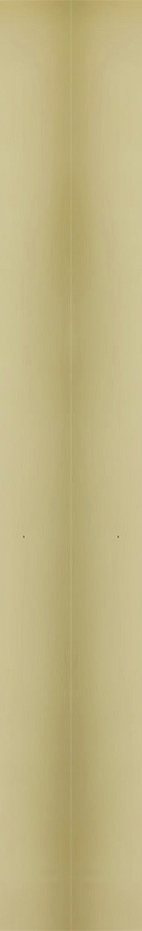
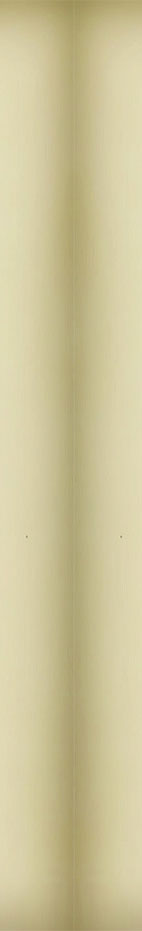
Mejoras gráficas Generales (Web y Java)

diff --git a/maquinaGirondoJS/JS-full/sketch.js b/maquinaGirondoJS/JS-full/sketch.js
@@ -12,7 +12,6 @@ var otraPagina = false;
 function preload() {
 
  back = loadImage("data/back.jpg");
- linea = loadImage("data/linea.jpg");
  times = loadFont("data/timesbd.otf");
 
  tema = floor(random(0, 3.99));
@@ -42,7 +41,7 @@ function setup() {
 
  /*lat = locationData.latitude;
  lon = locationData.longitude;
- var url = "https://maps.googleapis.com/maps/api/geocode/json?latlng="+lat+"%2C"+lon+"&language=es";
+ var url = "http://api.geonames.org/findNearbyPlaceNameJSON?lat="+lat+"&lng="+lon+"&lang=es&style=short&username=ibuioli";
  json = loadJSON(url, tenerDatos);*/
 }
 
@@ -54,7 +53,7 @@ function setup() {
 
 function draw() {
  //Grafica
- background(30);
+ background(233, 226, 198);
  imageMode(CORNER);
  image(back, 0, 0, width/2, height);
 
@@ -64,7 +63,6 @@ function draw() {
   image(back, 0, 0, width/2, height);
   image(back, width/2, 0, width/2, height);
   imageMode(CENTER);
-  image(linea, width/2, height/2, width/10, height);
  }
 
  var can1 = est_1.c + est_2.c + est_3.c;
@@ -77,10 +75,10 @@ function draw() {
  }
 
  if(ani === true){
-  alTi = alTi - 10;
-  al1 = al1 - 10;
-  al2 = al2 - 10;
-  alFir = alFir - 10;
+  alTi = alTi - 15;
+  al1 = al1 - 15;
+  al2 = al2 - 15;
+  alFir = alFir - 15;
 
   if(alFir === -20){
     est_1 = new Estrofa(byte(floor(random(3, 7.99))));
@@ -149,7 +147,6 @@ function draw() {
   fill(10, 8, 0, al2);
   text(est_4.texto() + "\n\n" + est_5.texto(), width-width/2+map(width, 800, 1980, 35, 86), 40, width/2 - map(width, 800, 1980, 40, 90), height);
  }
-
 
  //FIRMA
  textAlign(RIGHT, BOTTOM);

diff --git a/maquinaGirondoJS/maquinaGirondo_jscore/maquinaGirondo_jscore.js b/maquinaGirondoJS/maquinaGirondo_jscore/maquinaGirondo_jscore.js
@@ -127,10 +127,9 @@ function Estrofa(c_) {
  }
 
  this.escribir = function() {
-  textAlign(LEFT, CENTER);
-  textSize(22);
-  textLeading(22);
-  text(this.t, 10, -height/8, width/2 - 10, height);
+  push();
+  text(this.t, 10, 10, width, height);
+  pop();
  }
 
  this.texto = function() {

diff --git a/maquinaGirondoJS/JS-min/sketch.js b/maquinaGirondoJS/JS-min/sketch.js
@@ -20,8 +20,8 @@ function draw() {
  textSize(22);
  textLeading(22);
  text(poema.texto(), 10, -height/8, width - 10, height);
- print(poema.fonetica()); //Fonetica para TTS
  pop();
+ print(poema.fonetica()); //Fonetica para TTS
 
  noLoop();
 }

diff --git a/README.md b/README.md
@@ -32,6 +32,7 @@ Presente en versiones:
 
 * Nexus 1 - Android 4.1.2 (Android Virtual Device)
 * Nexus 4 - Android 4.1.2 (Android Virtual Device)
+* Móvil Genérico - Android 4.2 (Manymo)
 * Samsung Galaxy S6 - Android 5.1.0 (Genymotion)
 * Móvil Genérico - Android 5.0.0 (Genymotion)
 * Tablet Genérica - Android 5.0.0 (Genymotion)
